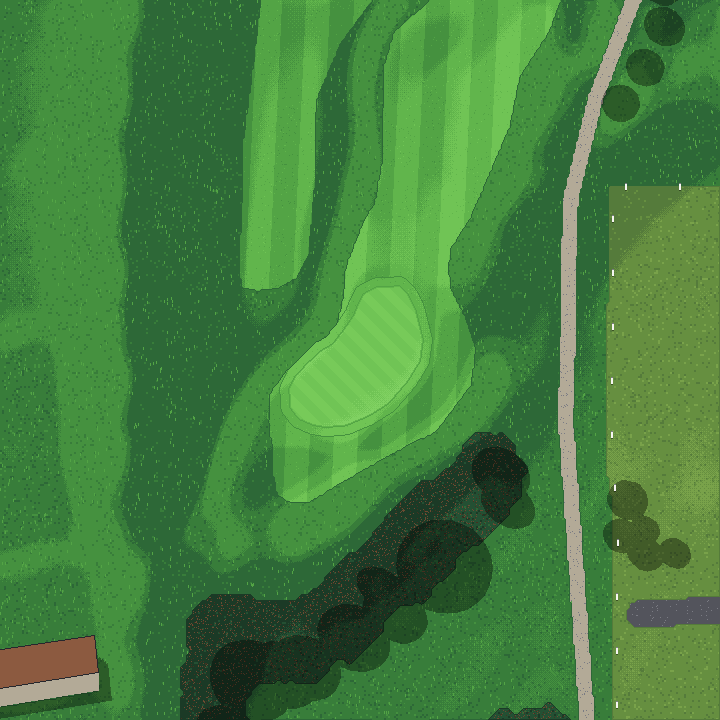
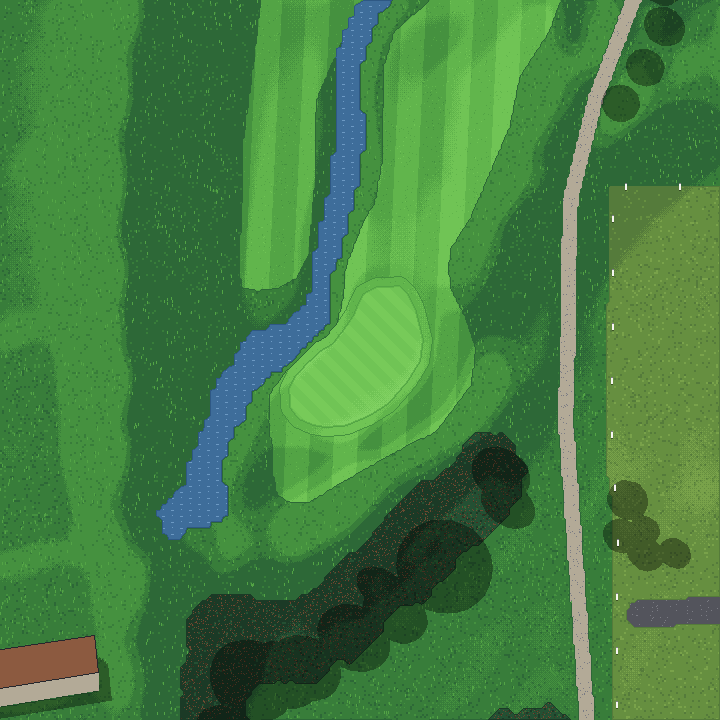
Langdon Farms: the creek on hole 7 from the lidar channel (red penalty area); propose_channels --lines
Claude-Session: https://claude.ai/code/session_014Gtm38dHh4KJuxbY9G59Wr

Changed region(s): [[0.2139, 0.0, 0.55, 0.7639]]

diff --git a/game/tests/unit/langdon.test.ts b/game/tests/unit/langdon.test.ts
@@ -1,6 +1,7 @@
 // Langdon Farms Golf Club: course-specific checks of COURSE_BUILD.md 8.2, plus
 // the developer's points: OR 551 between the two parts of the course is out of
-// bounds, both ponds are red penalty areas, 9 and 18 share one green around the
+// bounds, both ponds and the creek on hole 7 (from the lidar channel) are red
+// penalty areas, 9 and 18 share one green around the
 // clubhouse pond with 9's pin on the east side, and the two barns stand inside
 // the boundary (free relief).
 import { readFileSync } from 'node:fs';
@@ -64,15 +65,18 @@ describe('Langdon Farms Golf Club course data', () => {
     }
   });
 
-  it('both ponds are red penalty areas painted as water', () => {
-    for (const id of ['w334609000', 'w334607763']) {
+  it('both ponds and the creek on hole 7 are red penalty areas painted as water', () => {
+    for (const id of ['w334609000', 'w334607763', 'channel_tr_creek_7']) {
       const w = course.water.find((x) => x.id === id)!;
       expect(w, id).toBeTruthy();
       expect(w.penalty, id).toBe('red');
       const b = w.poly;
       let n = 0, water = 0;
-      for (let x = b.minX; x <= b.maxX; x += 2) for (let y = b.minY; y <= b.maxY; y += 2) {
-        if (!b.contains(x, y)) continue;
+      // points at least 0.75 m inside the outline (the surface map is 0.5 m pixels, and the
+      // creek is only about 6 m wide, so points on its edge fall either side of it)
+      const inside = (x: number, y: number) => [[0, 0], [0.75, 0], [-0.75, 0], [0, 0.75], [0, -0.75]].every(([dx, dy]) => b.contains(x + dx, y + dy));
+      for (let x = b.minX; x <= b.maxX; x += 1) for (let y = b.minY; y <= b.maxY; y += 1) {
+        if (!inside(x, y)) continue;
         n++;
         if (course.terrain.surface(x, y) === SURF.water) water++;
       }

diff --git a/data/langdon/make_creek_line.py b/data/langdon/make_creek_line.py
@@ -1,0 +1,82 @@
+"""Langdon Farms: the creek along hole 7 (developer, 2026-10-20: "a creek on hole 7
+that splits the two fairways"), which OSM does not map at all.
+
+The creek's line is taken from the lidar bare-earth DEM, not drawn by eye: in a box
+around hole 7 (local x 740-880, y 830-1300), cells more than DEPTH below the 25 m
+running median are channel; the largest piece (from past the green up the east side
+of the fairway, about 0.6 m deep) is the creek, and its line is that piece's main axis
+(longest path through the medial axis, pipeline/fairway_axis.py), simplified.
+
+Writes proposed/creek_lines.geojson (WGS84, one waterway=stream line `tr_creek_7`);
+then `python3 pipeline/propose_channels.py langdon --lines=proposed/creek_lines.geojson
+tr_creek_7` makes the penalty-area polygon from the channel along it.
+
+Run from the repo root after s00-s02: python3 data/langdon/make_creek_line.py
+"""
+from __future__ import annotations
+
+import json
+import sys
+from pathlib import Path
+
+import geopandas as gpd
+import numpy as np
+import rasterio
+from affine import Affine
+from rasterio.features import shapes
+from rasterio.windows import from_bounds
+from scipy import ndimage
+from shapely.geometry import LineString, shape
+from shapely.ops import unary_union
+
+HERE = Path(__file__).resolve().parent
+sys.path.insert(0, str(HERE.parent.parent / "pipeline"))
+from fairway_axis import centreline  # noqa: E402
+
+BOX = (740, 830, 880, 1300)   # local metres around hole 7
+DEPTH = 0.25                  # m below the running median (as propose_channels.py)
+PIECES = 1                    # the largest channel piece is the creek (the next one, y 1097-1158,
+                              # runs right along the cart path and into a bunker: a path-side swale, left out)
+MIN_SPAN_M = 40               # a piece must run at least this far north-south
+
+
+def main():
+    cfg = json.load(open(HERE / "course_config.json"))
+    x0w, y0w = cfg["world"]["x0"], cfg["world"]["y0"]
+    xa, ya, xb, yb = BOX
+    with rasterio.open(HERE / "build" / "dtm_1m.tif") as r:
+        z = r.read(1, window=from_bounds(x0w + xa - 30, y0w + ya - 30, x0w + xb + 30, y0w + yb + 30, r.transform)).astype(float)
+    rel = (z - ndimage.median_filter(z, size=25))[30:-30, 30:-30]
+    ch = ndimage.binary_opening(ndimage.binary_closing(rel < -DEPTH, iterations=2), iterations=1)
+    lab, n = ndimage.label(ch)
+    tr = Affine(1, 0, xa, 0, -1, yb)
+    pieces = []
+    for k in range(1, n + 1):
+        m = lab == k
+        p = unary_union([shape(g) for g, v in shapes(m.astype(np.uint8), mask=m, transform=tr)])
+        if p.bounds[3] - p.bounds[1] >= MIN_SPAN_M:
+            pieces.append((int(m.sum()), p, float(np.median(-rel[m]))))
+    pieces = sorted(pieces, key=lambda t: -t[0])[:PIECES]
+    # each piece's main axis, north end first, joined across the gaps between them (the
+    # creek runs under the cart path in a culvert there)
+    axes = []
+    for _, p, _ in pieces:
+        ax = centreline(p, res=0.5)
+        if ax[0][1] < ax[-1][1]:
+            ax = ax[::-1]
+        axes.append(ax)
+    axes.sort(key=lambda ax: -ax[0][1])
+    line = LineString(np.vstack(axes)).simplify(1.0)
+    for a, p, dep in pieces:
+        print(f"  channel piece {a} m2, bounds {[round(v) for v in p.bounds]}, median depth {dep:.2f} m")
+    print(f"  creek line {line.length:.0f} m from {tuple(round(c) for c in line.coords[0])} to {tuple(round(c) for c in line.coords[-1])}")
+    g = gpd.GeoDataFrame([{"osm": "tr_creek_7", "kind": "waterway",
+                           "tags": json.dumps({"waterway": "stream", "name": "creek on hole 7",
+                                               "source": "lidar DEM channel (data/langdon/make_creek_line.py)"})}],
+                         geometry=[LineString([(x + x0w, y + y0w) for x, y in line.coords])], crs=cfg["epsg"]).to_crs(4326)
+    (HERE / "proposed").mkdir(exist_ok=True)
+    g.to_file(HERE / "proposed" / "creek_lines.geojson", driver="GeoJSON")
+
+
+if __name__ == "__main__":
+    main()

diff --git a/pipeline/propose_channels.py b/pipeline/propose_channels.py
@@ -3,6 +3,11 @@ streams that OSM maps only as lines (waterway=stream), from the channel the
 bare-earth DEM shows along them.
 
     python3 propose_channels.py <course> <osm id> [<osm id> ...]     (after s00-s02)
+    python3 propose_channels.py <course> --lines=proposed/<file>.geojson <id> [...]
+
+--lines: take the lines from that file (WGS84, an `osm` id per line) instead of
+the course's OSM data, for a creek OSM doesn't map (Langdon Farms hole 7, whose
+line comes from the DEM channel, data/langdon/make_creek_line.py).
 
 Along each line, cells within SEARCH m of it that lie more than DEPTH m below
 the running median of the DEM (MEDIAN m window) are the channel; the channel is
@@ -40,7 +45,8 @@ MIN_HALF = 1.0   # m: the proposal always covers the line +- this
 
 def main():
     name = course_name_from_argv()
-    ids = sys.argv[2:]
+    ids = [a for a in sys.argv[2:] if not a.startswith("--lines=")]
+    lines_file = next((a.split("=", 1)[1] for a in sys.argv[2:] if a.startswith("--lines=")), None)
     if not ids:
         raise SystemExit("usage: propose_channels.py <course> <osm id> [...]")
     cfg = load_config(name)
@@ -51,6 +57,10 @@ def main():
         t = r.transform
     rel = dtm - ndimage.median_filter(dtm, size=MEDIAN)
     g = gpd.read_file(bdir / "course_local.geojson")
+    if lines_file:
+        lf = gpd.read_file(cdir / lines_file).to_crs(world.epsg)
+        lf["geometry"] = lf.geometry.translate(-world.x0, -world.y0)
+        g = lf
     rows = []
     for oid in ids:
         sel = g[g.osm == oid]
@@ -73,7 +83,7 @@ def main():
         width = poly.area / max(line.length, 1.0)
         rows.append({"osm": f"channel_{oid}", "kind": "lateral_water_hazard",
                      "tags": {"golf": "lateral_water_hazard", "penalty": "red", "proposed": "yes",
-                              "source": f"lidar bare-earth DEM channel along OSM {oid} (propose_channels.py)",
+                              "source": f"lidar bare-earth DEM channel along {'the line' if lines_file else 'OSM'} {oid} (propose_channels.py)",
                               "lidar_mean_width_m": f"{width:.1f}", "lidar_median_depth_m": f"{depth:.2f}"},
                      "geometry": poly})
         print(f"  channel_{oid}: line {line.length:.0f} m, channel {poly.area:.0f} m2, mean width {width:.1f} m, median depth {depth:.2f} m")

diff --git a/DECISIONS.md b/DECISIONS.md
@@ -280,6 +280,7 @@ Changes from the starting values in CLAUDE.md, and choices the spec left open. N
 - **Tee 7 boxes** are marked by the developer in the tracing desk (the lidar pads are noisy here: tree bases and mounds); the traced hole lines start at first-guess points near the card distance.
 - **OR 551 strip out of bounds:** main's `join_boundary_parts` (Eastmoreland) with `max_gap_m` 60, extended to boundaries mapped as separate features (see Data and pipeline): the two OSM course ways are joined across the 35-58 m strip holding the highway for the game's OB polygon; the strip stays out of bounds on the surface map, with stakes along both parts.
 - **Red barns** (developer): the barn on the left of the 8th fairway (the side away from hole 9; OSM w324295601, 8 m tall) and the event barn by the 18th green (w324295657, the open-sided barn with flower beds south-west of the clubhouse) are drawn in barn red `#a3302a` (`building_colours`), a colour outside the `pnw` palette. The barn on 8 gives free relief (developer), which is what the game does for every building inside the boundary; the card's local rule makes it an integral object. A first guess at the 8th barn (an unmapped building north of the 8th tee) was wrong and is not used.
+- **Creek on hole 7** (developer, 2026-10-20: "a creek on hole 7 that splits the two fairways", missed by the first build): not in OSM, so its line is taken from the lidar DEM channel (`data/langdon/make_creek_line.py`: the largest channel piece more than 0.25 m below the 25 m running median around hole 7, its main axis) and its red penalty area from the channel along that line, as OGC's and Langston's creeks (`propose_channels.py --lines`, new option; `flatten=no`). 267 m, 6.7 m wide, about 0.6 m deep; added through `edits.json`. A shallower dip beside the cart path upstream is left out (it runs along the path into a bunker).
 - **Driving range** stays in bounds (developer); OSM's internal out-of-bounds line along the range (w1569564855) is not used.
 
 ## Data and pipeline
@@ -289,6 +290,7 @@ Changes from the starting values in CLAUDE.md, and choices the spec left open. N
 - **`garden`** (Eastmoreland, 2026-10-19; `pipeline/garden.py`): flowering shrubs inside listed OSM polygons outside the course, where the CHM shows the shrub layer (`shrub_min_m`-`shrub_max_m`) and at `understory_density` under taller canopy, on a seeded jittered grid. s05 appends them to the tree list as type `shrub` with a bloom colour drawn from `colours`, and `order_trees()` (s05, and s06b after its tee-shot drops) puts each at an index whose % 8 is its colour, since the game picks the shrub sprite variant from the index; the lidar trees fill the other indices. s10 exports them as `c: 3`; s09b draws them in the putting views with `assets-src/shrubs.py`. Not combinable with `blossom` (both order the list; s05 stops). Other courses: no key, no change.
 - **`join_boundary_parts` with separate features** (Langdon Farms): `common.play_boundary()` returns the union of every boundary feature when the key is set and the course has more than one (Langdon's two `leisure=golf_course` ways either side of OR 551); with one feature (Eastmoreland's multipolygon) or without the key nothing changes.
 - **`building_colours`** (s09; Langdon Farms): `{osm id: "#rrggbb"}` paints those buildings' walls and roof in their own colour (three shades), outside the theme palette. Courses without the key are unchanged.
+- **`propose_channels.py --lines=<file>`** (Langdon Farms; a tool, not a `make course` step): take the stream lines from a proposals file instead of OSM, for a creek OSM doesn't map; its line comes from the DEM channel.
 - **Tracing tools** (Langdon Farms; not `make course` steps): `propose_trace.py` takes Waverley's optional `source`/water/pond changes, plus a per-green `br_delta` (brightness within that of the seed; texture alone ran into the collar: IoU 0.37 -> 0.81 on the OSM hole 1 green), a `cut`/`keep` split for one hole's part of a double green, water now optional, bunkers searched inside every boundary part, and a fairway colour rule (`fairways.rule`: smoothed 2G-R-B, texture and G-R minimums) for a course with no mapped fairways to train the classifier on. `desk_export.py --traced` puts the traced shapes, lines and greens in the desk for holes OSM lacks entirely; trace_spec `desk` names the tee set to mark (`Tee 7`) and the card column beside it; the page labels follow it (Indian Island's data has no such fields and keeps "Blue").
 
 - **`ob_highways`** (s08, course config; Indian Island `["trunk", "trunk_link"]`): roads of these OSM highway values inside the course boundary are painted `ob_road` (out of bounds) instead of rough or cart path, except over water. For a course whose boundary contains a public road that is out of bounds. Without the key nothing changes: Oswego Lake, Highland Links and the three East Potomac courses rebuild byte-identical (all 735 exported files).

diff --git a/data/langdon/report_notes.md b/data/langdon/report_notes.md
@@ -12,7 +12,8 @@ Decisions the developer made on 2026-10-19 are in DECISIONS.md ("Langdon Farms G
 8. **The driving range is in bounds** (developer) and plays as rough; OSM's internal out-of-bounds line along it (w1569564855) is not used.
 9. **The barns**: the barn on 8 (w324295601) and the event barn by the 18th green (w324295657) are drawn in barn red. Both stand inside the boundary, so the game gives free relief from them (developer's choice; the card's local rule calls the barn on 8 an integral object).
 10. **Trees**: 5,043 from the DOGAMI canopy model (799 on the course), conifer or broadleaf from crown shape only (no leaf-off imagery), p50 19 m, max 60 m. No tree stands in the way of a centre-line drive or of the fairway-middle tee shot on any hole (unit tests), and s06b removed none.
-11. **Ponds**: the clubhouse pond (w334609000, beside 9 and 18) and the pond on the west part (w334607763, between 12 and 13) are red penalty areas (`red_water_osm`; mapped only as `natural=water`). The ponds west of the course near I-5 lie outside the boundary.
+11. **Water**: the clubhouse pond (w334609000, beside 9 and 18) and the pond on the west part (w334607763, between 12 and 13) are red penalty areas (`red_water_osm`; mapped only as `natural=water`). The ponds west of the course near I-5 lie outside the boundary.
+14. **The creek on hole 7** (developer, 2026-10-20: it splits the two fairways) is not in OSM. Its line comes from the channel in the lidar DEM (`data/langdon/make_creek_line.py`) and the red penalty area from the channel along it (`propose_channels.py --lines`): 267 m from beside the cart path east of the fairway, down between the fairway and the approach and past the west side of the green, 6.7 m wide on average, about 0.6 m deep (`proposed/creek7.jpg`). A second, shallower dip beside the cart path north of it (y 1097-1158, running into a bunker) is left out as a path-side swale. Recommendation: confirm where the creek starts and ends; robot rounds (8 seeds) took no penalty on 7.
 12. **Scorecard**: the club's own card (2/2020), identical to GolfPass hole for hole. Tee 7 rating/slope 71.5/133 from the card (GolfPass: 71.9/132). Tee 8, 5, 3 and 1 are in scorecard.csv, not built.
 13. **Robot rounds** (5 seeds): 62-71, no penalties, no hole over par + 2.
 

diff --git a/data/langdon/validation_report.md b/data/langdon/validation_report.md
@@ -118,7 +118,7 @@ Tracing desk: https://claude.ai/artifact/G4bThDJVqubcH8TdhBfTFc (`desk_export.py
 | 4 | 4 | yes | yes (4 near) | yes | yes | yes | 3 | 0 |
 | 5 | 4 | yes | yes (4 near) | yes | yes | yes | 2 | 0 |
 | 6 | 3 | yes | yes (3 near) | yes | yes | yes | 1 | 0 |
-| 7 | 5 | yes | yes (3 near) | yes | yes | yes | 2 | 0 |
+| 7 | 5 | yes | yes (3 near) | yes | yes | yes | 2 | 1 |
 | 8 | 4 | yes | yes (4 near) | yes | yes | yes | 4 | 0 |
 | 9 | 4 | yes | yes (3 near) | yes | yes | yes | 2 | 0 |
 | 10 | 4 | yes | yes (4 near) | yes | yes | yes | 2 | 0 |
@@ -152,5 +152,5 @@ Tracing desk: https://claude.ai/artifact/G4bThDJVqubcH8TdhBfTFc (`desk_export.py
 - hole 17: hole line carries handicap=16 (compare with scorecard)
 - hole 18: hole line carries handicap=6 (compare with scorecard)
 
-Totals: 78 tees, 18 greens, 22 fairways, 38 bunkers, 0 water hazards, 18 pins, 16 cart paths, 34 OSM tree points.
+Totals: 78 tees, 18 greens, 22 fairways, 38 bunkers, 1 water hazards, 18 pins, 16 cart paths, 34 OSM tree points.
 

diff --git a/docs/COURSE_LESSONS.md b/docs/COURSE_LESSONS.md
@@ -542,4 +542,10 @@ notes live in DECISIONS.md.
   `git fetch --depth=300 origin main` gave the base, and per file "take
   main's, re-apply mine" (`git diff <base> HEAD -- <file> | git apply --3way`)
   resolved the desk files that both branches changed.
-
+- **Look for creeks OSM doesn't map at all.** The first Langdon build missed a
+  creek across hole 7; the developer saw it. A relative-height map of the DEM
+  (height minus a 25 m running median, cells below -0.25 m in red) over the
+  whole course shows every channel at once, mapped or not. Make it in Phase 3
+  and ask about each channel that crosses or runs beside a hole. For one OSM
+  lacks, take the line from the channel itself (`data/langdon/make_creek_line.py`)
+  and run `propose_channels.py --lines=`.

diff --git a/CLAUDE.md b/CLAUDE.md
@@ -2173,7 +2173,8 @@ and data/langdon/validation_report.md.
     the tracing desk (`data/langdon/desk/`); DOGAMI bare-earth DTM and canopy
     height model (1 m). Originals in the GitHub release `data-langdon`.
 -   **Water:** the clubhouse pond (9, 18) and the pond between 12 and 13,
-    both red (`red_water_osm`).
+    both red (`red_water_osm`), and the creek on hole 7 between the fairway
+    and the approach (red, from the lidar channel; not in OSM).
 -   **Barns:** the barn on the left of the 8th fairway and the event barn by
     the 18th green are drawn barn red (`building_colours`); free relief, as
     for every building inside the boundary (developer).
